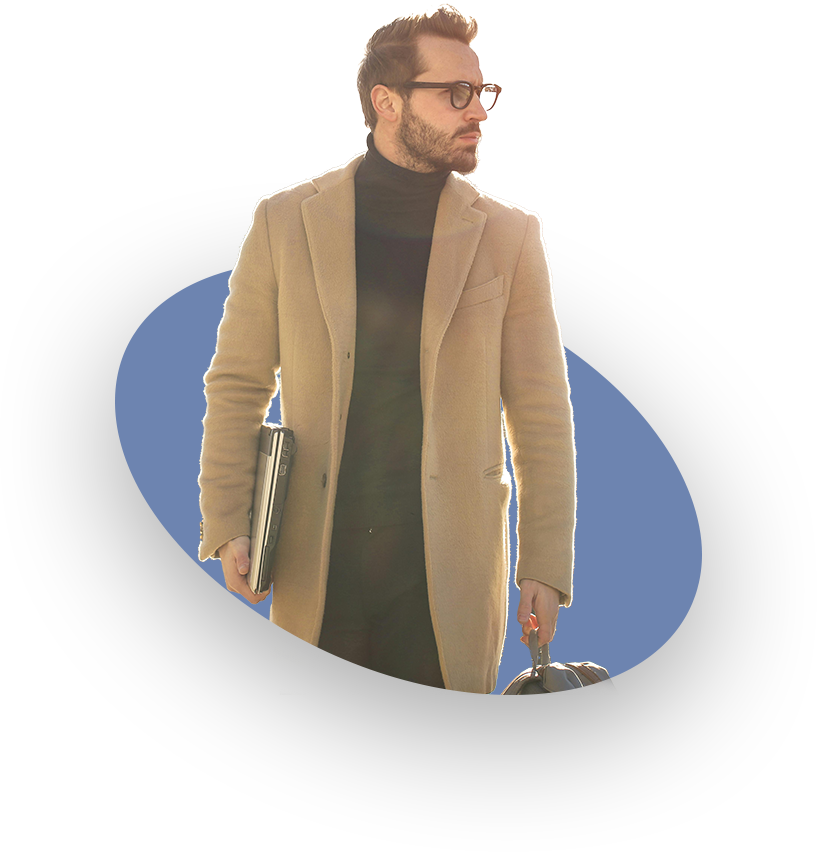
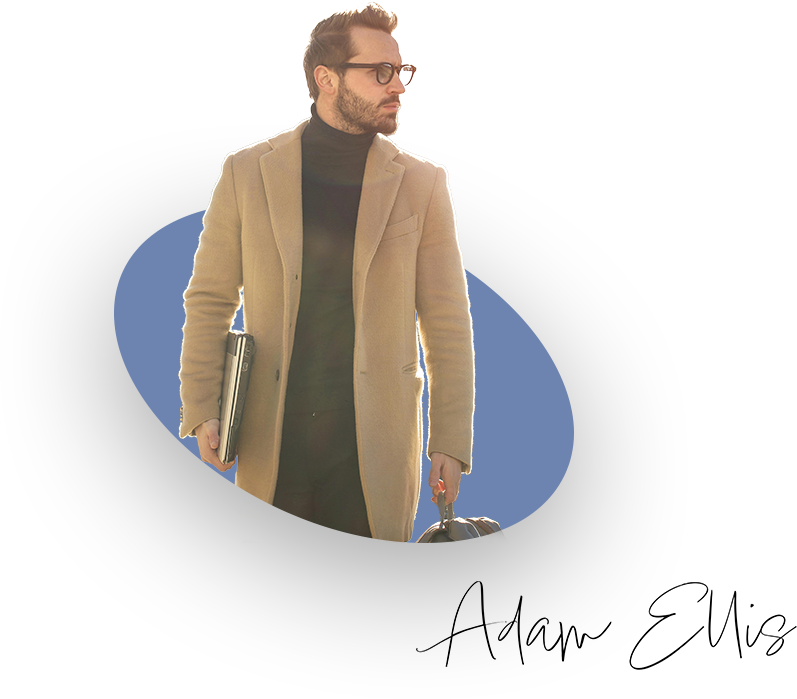
responsive updaate

diff --git a/src/components/Hero copy.jsx b/src/components/Hero copy.jsx
@@ -1,0 +1,96 @@
+import React from 'react'
+import img from '../assets/images/group.png'
+import HeroButtons from './HeroButtons'
+
+const name = 'designer'
+const Hero = () => {
+  //h-[calc(100vh-80px)]
+  return (
+    <section className=' '>
+      {/* main wrap */}
+      <div className='min-h-[calc(100vh-80px)]  grid grid-cols-2  mx-width border'>
+        <div className=''>
+          <div className='w-fit border'>
+            <p className='text-[8rem] font-[300] leading-none text-[#D9042B]'>
+              Adam Ellis{' '}
+              <span className='text-[#D9042B] -rotate-11 inline-block text-[3rem'>
+                .
+              </span>
+            </p>
+            <p className='text-[7rem] font-[300] leading-none'>
+              {' '}
+              <span className='text-[#D9042B]'>programmer</span>{' '}
+              <span className='text-[#D9042B] rotate-7 inline-block'>!</span>
+            </p>
+            <p className='text-[2rem] font-[300] leading-none text-end tracking-[1rem] mr-3 mt-2 text-[#203763]'>
+              <span className='london-span'>London</span>
+            </p>
+            <p className='text-[4rem] font-[300]  text-end tracking-[0.7rem] text-[#203763]'>
+              and designer
+            </p>
+          </div>
+          <HeroButtons />
+          <div className='border'>
+            <div className='my-5 mt-10 '>
+              <p className=' text-end text-3xl leading-[2.5rem] tracking-[1.1rem] text-[#203763]'>
+                contact me on
+              </p>
+              <p className=' text-end text-2xl leading-[2.5rem]  tracking-[1.1rem] text-[#203763] '>
+                07863807071
+              </p>
+            </div>
+            <div className=' w-3/4 mx-auto'>
+              <p className='text-2xl text-center mb-2'>
+                <i className='fa-solid fa-circle-info text-[#D9042B]'></i>
+                <span className='ml-1'> quick bio</span>
+              </p>
+              <p className='text-justify'>
+                Lorem ipsum dolor sit amet consectetur adipisicing elit.
+                Voluptate vel amet omnis ipsum deleniti in sed beatae minus
+                excepturi reiciendis at harum corrupti fuga porro itaque quae
+                illum exercitationem earum impedit eaque rem, quisquam ipsam
+                esse! Accusamus, officia! Cupiditate sed dolorum, temporibus sit
+                vero rerum consequuntur laboriosam alias maxime nemo! Modi
+                architecto iure explicabo similique, tempora dolores laudantium,
+                cum esse accusamus cumque debitis iste beatae odio? Esse
+                adipisci, possimus officia doloremque sequi aperiam ea quod
+                doloribus omnis qui consequuntur, consequatur odit excepturi
+                ullam labore ut. Ex suscipit nemo voluptatum dolores eum modi,
+                aut, iusto ipsum ut incidunt quam mollitia accusantium!
+              </p>
+            </div>
+          </div>
+        </div>
+        {/*  */}
+        <div className='flex justify-center'>
+          <div className=''>
+            {/* <p className='text-center text-6xl absolute'>digital design and production!</p> */}
+            <div className=' flex justify-center'>
+              <img className='h-120 ' src={img} alt='' />
+            </div>
+            <div className=' mt-5'>
+              <p className=' text-end text-2xl tracking-[0.5rem]'>
+                over <span className=''>10</span> projects
+              </p>
+              <p className=' text-end text-2xl tracking-[0.7rem]'>
+                available for
+              </p>
+              <p className=' text-end text-2xl tracking-[0.9rem]'> demoing</p>
+              <div className=' mt-10 flex justify-center'>
+                <p className='max-w-3/4 bg-[#6D84B0] shadow-2xl text-white  p-5 rounded-[0.4rem]  page-quote'>
+                  Your work is going to fill a large part of your life, and the
+                  only way to be truly satisfied is to do what you believe is
+                  great work. And the only way to do great work is to love what
+                  you do. If you haven't found it yet, keep looking. Don't
+                  settle. -- steve jobs
+                </p>
+              </div>
+            </div>
+          </div>
+        </div>
+      </div>
+    </section>
+  )
+}
+
+export default Hero

diff --git a/src/components/Hero copy 2.jsx b/src/components/Hero copy 2.jsx
@@ -29,14 +29,8 @@ const Hero = () => {
             </div>
           </div>
           {/*  */}
-          <div className='max-w-[600px] m-auto mt-10 text-justify p-10 md:p-0'>
-            <div className='flex md:hidden justify-start'>
-              <img className='w-90 md:w-130 ' src={img} alt='' />
-            </div>
-            <div className=' flex justify-center items-center mb-5'>
-              <i className='fa-solid fa-circle-info text-[1.5rem]'></i>
-              <p className='text-2xlmy-5 text-2xl mx-3'>quick bio</p>
-            </div>
+          <div className='max-w-[600px] m-auto mt-10 text-justify'>
+            <p className='text-2xl text-center my-5'>quick bio</p>
             <p>
               Lorem ipsum dolor sit amet consectetur adipisicing elit.
               Praesentium fuga officia consectetur reprehenderit temporibus hic
@@ -53,19 +47,17 @@ const Hero = () => {
               quibusdam libero eligendi facilis. Incidunt, exercitationem
               voluptatibus?
             </p>
-
-            <HeroButtons />
           </div>
         </div>
         {/*  */}
         <div className='flex justify-center '>
           <div className=''>
             {/* <p className='text-center text-6xl absolute'>digital design and production!</p> */}
-            <div className=' hidden md:flex justify-start'>
-              <img className='w-90 md:w-130 ' src={img} alt='' />
+            <div className=' flex justify-start'>
+              <img className='w-130 ' src={img} alt='' />
             </div>
             <div className=' mt-5'>
-              <div className='max-w-[400px] mx-auto  text-end'>
+              <div className='  max-w-[400px] mx-auto  text-end'>
                 <p className='  text-2xl tracking-[0.5rem]'>over 10 projects</p>
                 <p className='text-2xl tracking-[0.7rem]'>available for</p>
                 <p className='text-2xl tracking-[0.9rem]'> demoing</p>

diff --git a/src/components/HeroButtons.jsx b/src/components/HeroButtons.jsx
@@ -2,7 +2,7 @@ import React from 'react'
 
 const HeroButtons = () => {
   return (
-    <div className='flex justify-center mt-5'>
+    <div className='flex justify-center mt-5 '>
       <button className='btn btn-outline border-[#6D84B0] text-[#6D84B0] mx-5'>Contact Me</button>
       <button className='btn btn-soft bg-[#6D84B0] text-white mx-5'>Random Project</button>
     </div>

diff --git a/src/App.jsx b/src/App.jsx
@@ -26,6 +26,7 @@ function App() {
   return (
     <>
       {/* <NavBar /> */}
+      <div className='h-20'></div>
       <Hero />
       <SkillsAndTech techLogos={data.techLogos} />
       <ShowCase showcase={data.showcase} />
